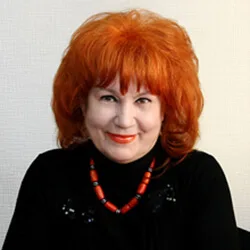
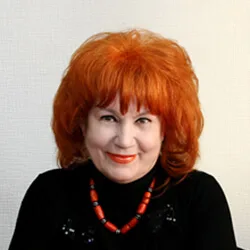
feat: add masters index and new expert and master portrait assets

diff --git a/AGENTS.md b/AGENTS.md
@@ -116,7 +116,7 @@
 | `category` — роль          | без поля 59 · `directors` 20 · `teachers` 14 · `support` 10 · `accompanists` 9 · `musicians` 7 · `vocalists` 7 · `administration` 6 · `choreographers` 5 · `heads` 4 · `speech` 4 · `artists` 3 · `production` 2 · `it` 1 |
 | `status` — цикл            | `active` 77 · `former` 68 · `honorary` 6                                                                                                                                                                      |
 | розділ — `masterSection()` | `history` 60 · `needsClarification` 27 · `support` 9 · `directors` 8 · `musicians` 7 · `vocalists` 7 · `accompanists` 6 · `honorary` 6 · `administration` 5 · `choreographers` 4 · `speech` 4 · `artists` 3 · `heads` 3 · `it` 1 · `production` 1 |
-| прогалини — скільки записів БЕЗ поля | `subjects` 67 · `roleTitle` 45 · `photo` 43 · `departments` 25 |
+| прогалини — скільки записів БЕЗ поля | `subjects` 67 · `roleTitle` 45 · `photo` 42 · `departments` 25 |
 | `visibility` — видимість | без поля 117 · `linked` 34 |
 
 > Дві верхні осі й нижня розходяться НАВМИСНО, і це не помилка даних: роль —
